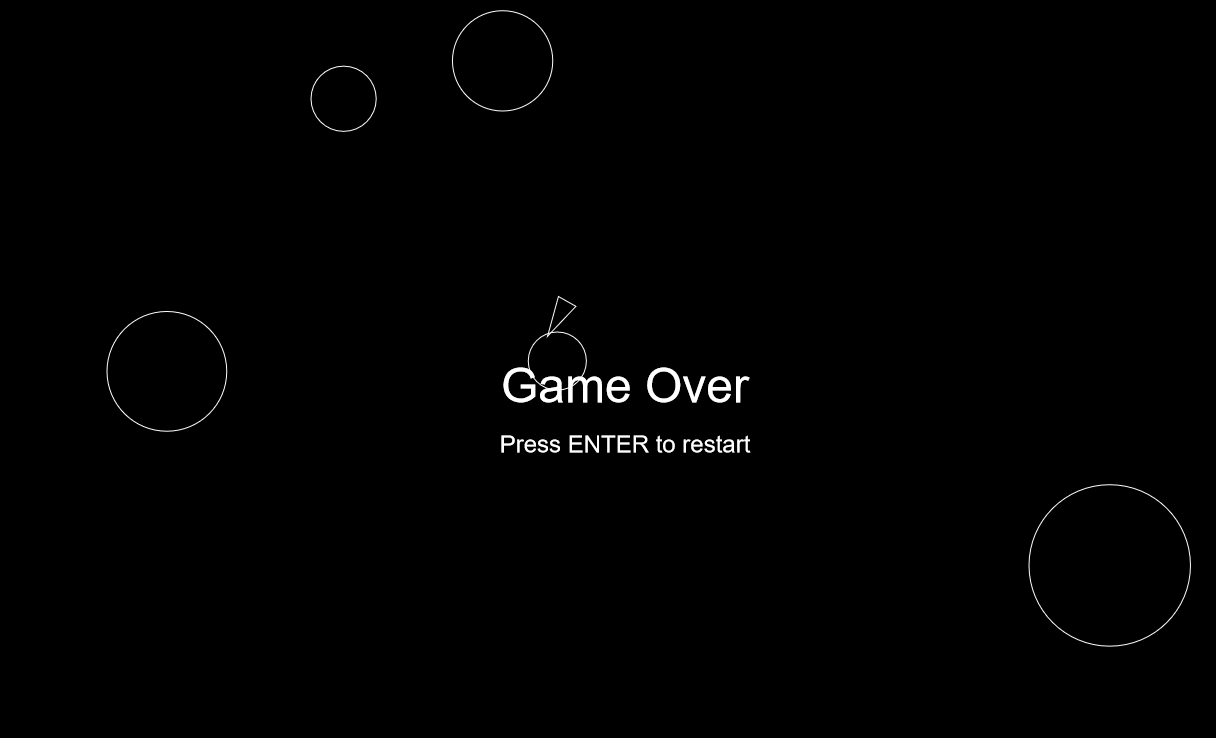
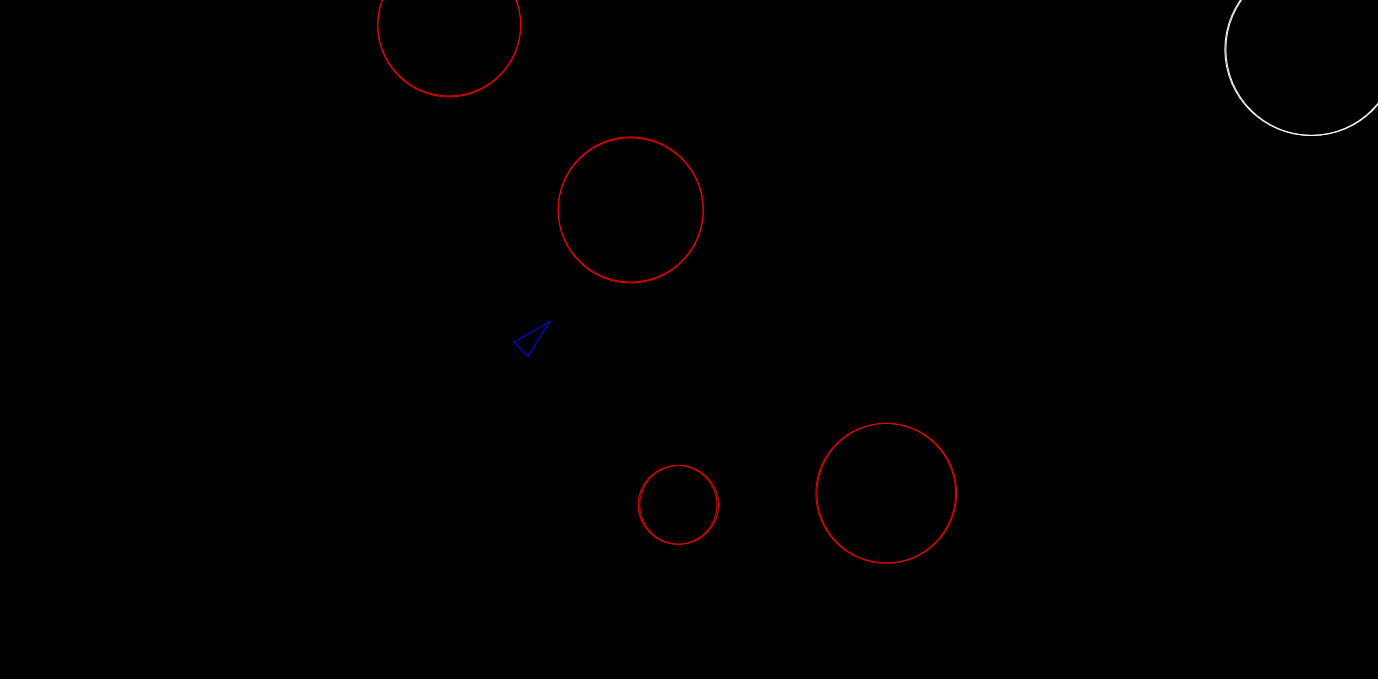
switched from flex to grid. swapped some thumbnails

diff --git a/assets/style.css b/assets/style.css
@@ -56,12 +56,15 @@ h1 {
   text-shadow: 0 0 6px white;
 }
 
-.flex {
-  display: flex;
+.grid {
+  display: grid;
+  grid-template-columns: repeat(2, 1fr);
   gap: 2em;
+  margin: 0 auto;
+  max-width: 980px;
 
-  @media screen and (max-width: 992px) {
-    flex-direction: column;
+  @media screen and (max-width: 768px) {
+    grid-template-columns: repeat(1, 1fr);
   }
 }
 

diff --git a/index.html b/index.html
@@ -9,7 +9,7 @@
   <body>
     <canvas id="starfield"></canvas>
     <h1>Select Game</h1>
-    <div class="flex">
+    <div class="grid">
       <a class="game" href="/games/asteroids/" target="_blank">
         <img src="/assets/thumbnails/asteroids.png" alt="asteroids" />
         <h2>Asteroids</h2></a
